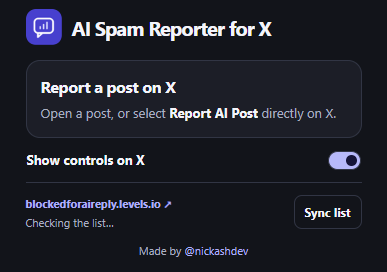
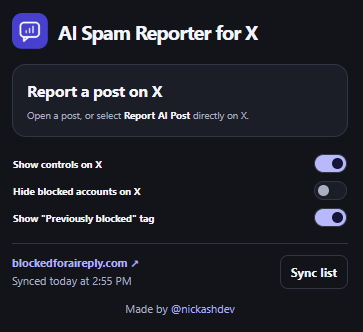
Update README.md for clarity, bump version to 1.4.4, and update extension images

diff --git a/README.md b/README.md
@@ -27,7 +27,7 @@ Report automated spam replies on X to [Blocked for AI Reply](https://blockedfora
 - Click **Report AI Post** alongside Reply and Like. On the report page, review the prefilled link and click **Send report** when ready. Only report automated spam replies.
 - Listed accounts display a red badge reading Blocked on **blockedforaireply.com** beside the author in the timeline and below the handle on the opened post. The extension does an exact, case-insensitive match and never modifies your X account.
 - If X doesn't display its usual timestamp and author layout, open the post directly and select **Open report form** in the toolbar popup. You can also right-click the post's timestamp and select **Report AI Post**.
-- Turn on **Hide blocked accounts** in the popup to remove posts from listed accounts from your feed (the post you open directly stays visible).
+- To keep listed accounts out of your feed without blocking each one individually on X, turn on **Hide blocked accounts** in the popup. This hides their feed posts; a post you open directly stays visible.
 - Accounts that were on the list but have since been removed show a gray **Previously blocked** badge for 30 days (switch it off with **Show "Previously blocked" tag**), based on the changes between your syncs.
 - Use the toolbar popup to turn inline controls off, see when the reviewed list was last updated, or refresh the list immediately.
 
